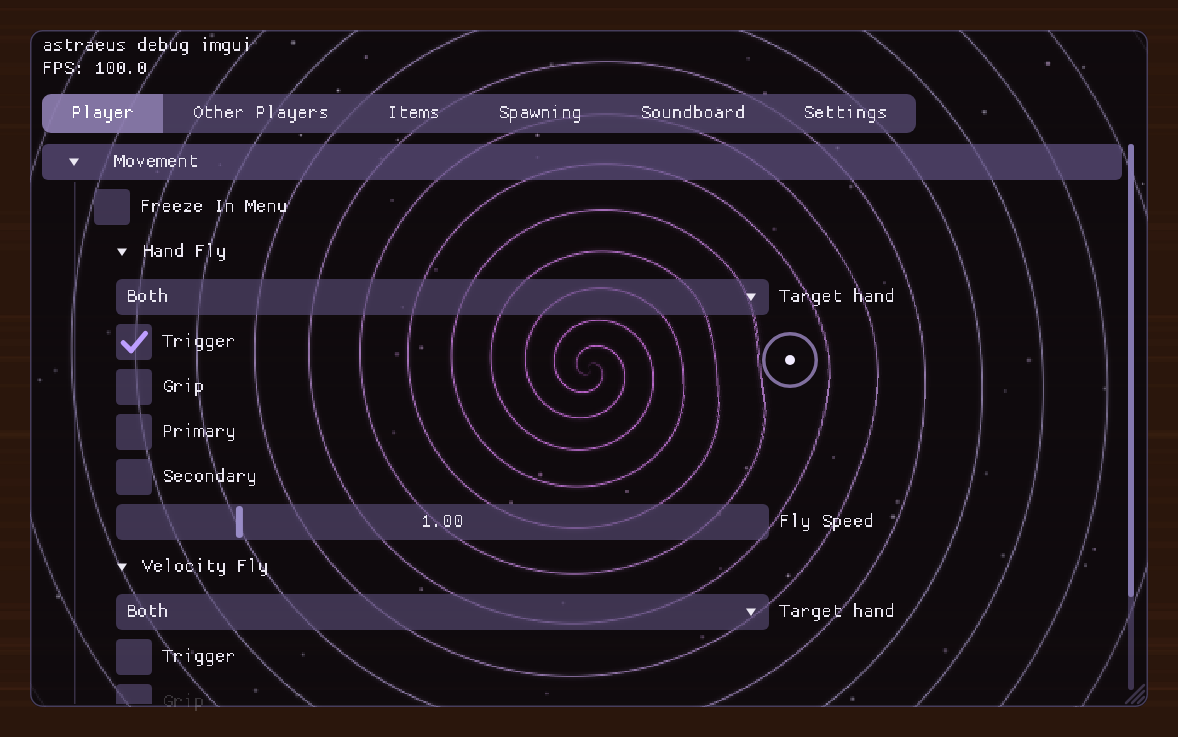
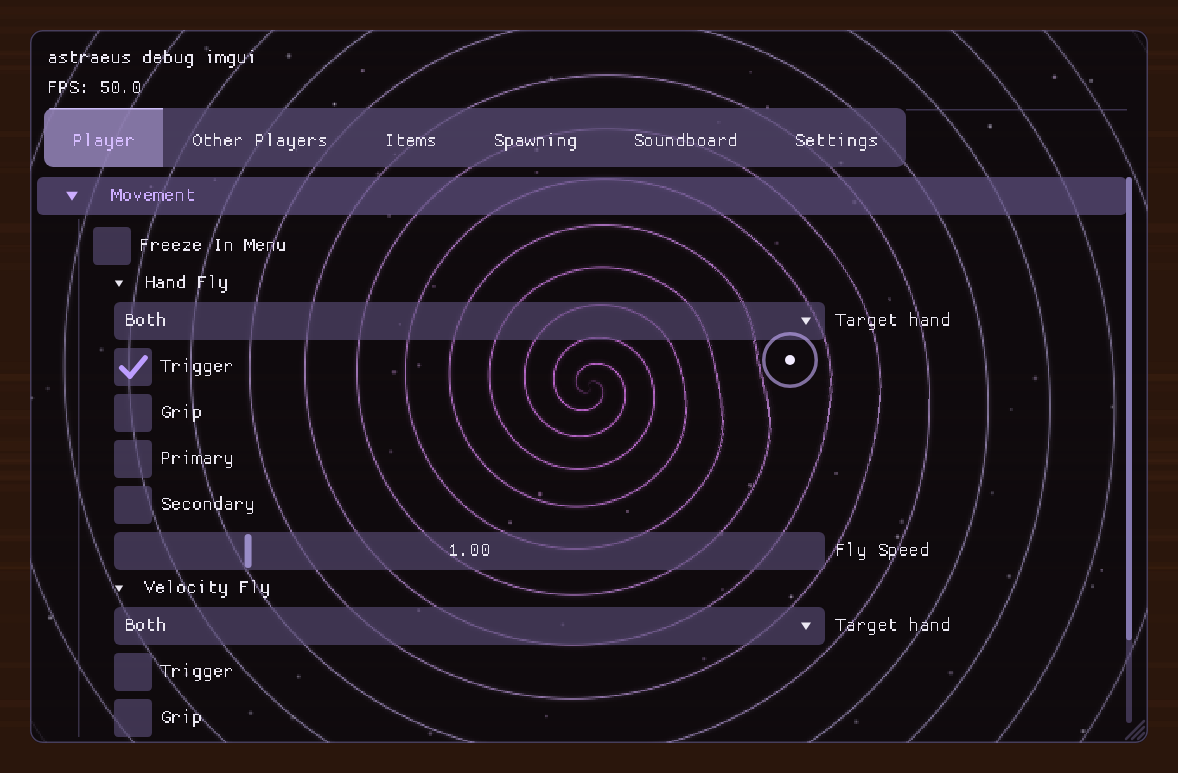
Pixel-match the Spiral Menu reference
Measured the reference screenshot (1 px = 1.69 menu units) and matched:
- title / FPS text tops at 18 / 48, tab strip at 78 and 59 tall, tab
  text a little below centre, 28 units padding per side, a 1.5-unit
  overline on the selected tab, and a thin line from the strip's end to
  the window edge;
- 38-unit rows with 8 between; headers reach half the window padding
  past the content (like ImGui), bigger lavender arrow + label, 12 below;
- tree nodes are text-height rows with a small arrow 21 in and children
  20.5 in; section content 48.6 in with the guide at 34;
- item width a fixed 63.6 % of the window (ImGui-style), checkbox label
  gap 8, lavender selected-tab text.
NCS build regenerated.

Claude-Session: https://claude.ai/code/session_01CSWsGaxVVQEfJqQLYJMYRF

diff --git a/fridaimgui.ts b/fridaimgui.ts
@@ -891,7 +891,7 @@ Il2Cpp.perform(() => {
 			ListRow: [0.16, 0.29, 0.48, 0.30], ListRowAlt: [0.16, 0.29, 0.48, 0.45], NoticeTitle: [1, 0.80, 0.40, 1], NoticeBorder: [1, 0.78, 0.40, 0.75],
 		},
 		Skire: {
-			Text: [0.92, 0.91, 0.95, 1], TextDisabled: [0.60, 0.57, 0.68, 1], TextOnActive: [1, 1, 1, 1],
+			Text: [0.92, 0.91, 0.95, 1], TextDisabled: [0.60, 0.57, 0.68, 1], TextOnActive: [0.84, 0.74, 1, 1], HeaderText: [0.80, 0.68, 1, 1],
 			WindowBg: [0.035, 0.028, 0.055, 0.80], Pattern: [1, 1, 1, 0.85], PopupBg: [0.10, 0.08, 0.15, 0.97], Border: [0.46, 0.41, 0.62, 0.55],
 			TitleBg: [0.06, 0.05, 0.09, 0.9], TitleBgActive: [0.10, 0.08, 0.15, 0.95],
 			RowBg: [0.36, 0.31, 0.48, 0.30], RowHover: [0.46, 0.40, 0.62, 0.50],
@@ -905,7 +905,7 @@ Il2Cpp.perform(() => {
 			Grip: [0.56, 0.50, 0.72, 0.35], GripHovered: [0.62, 0.57, 0.80, 0.7], GripActive: [0.72, 0.66, 0.90, 0.95],
 			ModalDim: [0.02, 0.01, 0.04, 0.6], Discord: [0.35, 0.4, 0.95, 0.9], DiscordHovered: [0.45, 0.5, 1, 1],
 			ListRow: [0.36, 0.31, 0.48, 0.42], ListRowAlt: [0.44, 0.39, 0.58, 0.42],
-			NoticeTitle: [1, 0.80, 0.40, 1], NoticeBorder: [1, 0.78, 0.40, 0.75],
+			NoticeTitle: [1, 0.80, 0.40, 1], NoticeBorder: [1, 0.78, 0.40, 0.75], TabOverline: [0.80, 0.74, 0.96, 1],
 		},
 		Purple: {
 			Text: [0.86, 0.83, 0.95, 1], TextDisabled: [0.62, 0.58, 0.75, 0.85], TextOnActive: [1, 1, 1, 1],
@@ -955,8 +955,8 @@ Il2Cpp.perform(() => {
 	};
 	const THEME_NAMES = Object.keys(THEMES);
 	const style = {
-		scale: UI_SCALE * MENU_SIZE / 100, width: WINDOW_WIDTH, titleH: 30, pad: 12, spacingX: 10, spacingY: 9,
-		frameH: 36, framePadX: 14, fontSize: 24, grabW: 7, tabH: 39, tabPadX: 29, itemW: 0.65,
+		scale: UI_SCALE * MENU_SIZE / 100, width: WINDOW_WIDTH, titleH: 30, pad: 14, spacingX: 10, spacingY: 8,
+		frameH: 38, framePadX: 14, fontSize: 24, grabW: 7, tabH: 59, tabPadX: 28, itemW: 0.636,
 		rows: ROW_LAYOUT, rowH: 38, rowGap: 3, labelFrac: 0.42, tabsFill: false, opacity: 1, rounding: ROUNDING,
 		sidebar: SIDEBAR_TABS, sidebarW: SIDEBAR_WIDTH,
 		wrist: WRIST_MENU, onTop: ALWAYS_ON_TOP, stabilize: STABILIZE,
@@ -1378,6 +1378,10 @@ Il2Cpp.perform(() => {
 		const i = label.indexOf("##");
 		return [i >= 0 ? label.slice(0, i) : label, (cur ? cur.title : "") + "/" + label];
 	}
+	function itemWidth(): number {
+		if (!cur) return 80;
+		return Math.max(80, Math.min(Math.round(cur.W * style.itemW), fullW() - 40));
+	}
 	function fullW(): number {
 		if (!cur) return 0;
 		const side = (cur.sideOff ?? 0);
@@ -1521,12 +1525,14 @@ Il2Cpp.perform(() => {
 		}
 		const focused = mouseWin === w || dragWin === w;
 		const fpsLine = TITLE_FPS && w.order === 0 && !w.collapsed;
+		const cellH = Math.round(14 * style.fontSize / 16);
 		if (classic) {
-			T(style.pad, 2, w.W - style.pad * 2 - closeW, th - 2, title, C.Text, ALIGN_LEFT, L_FRAME);
+			const tTop = Math.round(cellH * 0.857), fTop = tTop + Math.round(cellH * 1.43);
+			T(style.pad + 3, tTop, w.W - style.pad * 2 - closeW, cellH, title, C.Text, ALIGN_LEFT, L_FRAME);
 			if (fpsLine) {
 				const now = Date.now();
 				if (now - menuFpsAt >= 500) { menuFpsAt = now; menuFps = fps; }
-				T(style.pad, th - 4, 400, lineH(), "FPS: " + menuFps.toFixed(1), C.Text, ALIGN_LEFT, L_FRAME);
+				T(style.pad + 3, fTop, 400, cellH, "FPS: " + menuFps.toFixed(1), C.Text, ALIGN_LEFT, L_FRAME);
 			}
 		} else {
 			RR(0, 0, w.W, th, focused ? C.TitleBgActive : C.TitleBg, L_FRAME, 2, w.collapsed ? ALL_CORNERS : TOP_CORNERS);
@@ -1558,7 +1564,7 @@ Il2Cpp.perform(() => {
 		}
 
 		const fpsPad = fpsLine ? (classic ? lineH() - 4 : 16) : 0;
-		w.cy = th + fpsPad + style.pad; w.rowY = w.cy; w.rowH = 0; w.sameLine = false; w.indent = 0; w.lastX = 0; w.lastW = 0;
+		w.cy = classic ? Math.round(cellH * 0.857) + Math.round(cellH * (fpsLine ? 1.24 + 1.62 : 1.62)) : th + fpsPad + style.pad; w.rowY = w.cy; w.rowH = 0; w.sameLine = false; w.indent = 0; w.lastX = 0; w.lastW = 0;
 		return !w.collapsed;
 	}
 
@@ -1649,7 +1655,7 @@ Il2Cpp.perform(() => {
 			if (desc) T(bx + bs + 10, rw.y, rw.cw - bs - 10, rw.h, desc, C.TextDisabled, ALIGN_LEFT, L_FRAME);
 			return rw.b.clicked;
 		}
-		const sz = style.frameH, lw = textW(disp), gap = style.spacingX;
+		const sz = style.frameH, lw = textW(disp), gap = Math.round(style.frameH * 0.22);
 		const [x, y] = item(sz + gap + lw, sz);
 		const b = behavior(id, x, y, sz + gap + lw, sz);
 		if (b.clicked) r.v = !r.v;
@@ -1668,7 +1674,7 @@ Il2Cpp.perform(() => {
 			fx = rw.cx; fw = rw.cw; fh = style.frameH - 4; fy = rw.y + (rw.h - fh) / 2;
 			hy = rw.y; hh = rw.h;
 		} else {
-			fw = Math.max(80, Math.floor(fullW() * style.itemW)); fh = style.frameH;
+			fw = itemWidth(); fh = style.frameH;
 			[fx, fy] = item(fw + style.spacingX + textW(disp), fh);
 			hy = fy; hh = fh;
 			T(fx + fw + style.spacingX, fy, textW(disp), fh, disp, C.Text, ALIGN_LEFT, L_FRAME);
@@ -1699,7 +1705,7 @@ Il2Cpp.perform(() => {
 			const rw = row(id, disp, true);
 			fx = rw.cx; fw = rw.cw; fh = style.frameH - 4; fy = rw.y + (rw.h - fh) / 2; b = rw.b; popY = rw.y + rw.h;
 		} else {
-			fw = Math.max(80, Math.floor(fullW() * style.itemW)); fh = style.frameH;
+			fw = itemWidth(); fh = style.frameH;
 			[fx, fy] = item(fw + style.spacingX + textW(disp), fh);
 			b = behavior(id, fx, fy, fw, fh); popY = fy + fh + 2;
 			T(fx + fw + style.spacingX, fy, textW(disp), fh, disp, C.Text, ALIGN_LEFT, L_FRAME);
@@ -1780,14 +1786,15 @@ Il2Cpp.perform(() => {
 		const [disp, id] = labelId(label);
 		if (!openHeaders.has(id)) openHeaders.set(id, defaultOpen);
 		const fw = fullW(), fh = style.rows ? style.rowH : style.frameH;
-		const [x, y] = item(fw, fh, style.rows ? style.rowGap : style.spacingY);
-		const b = behavior(id, x, y, fw, fh);
+		const [x0, y] = item(fw, fh, style.rows ? style.rowGap : style.spacingY + 4);
+		const x = x0 - style.pad / 2, hw = fw + style.pad;
+		const b = behavior(id, x, y, hw, fh);
 		if (b.clicked) openHeaders.set(id, !openHeaders.get(id));
 		const isOpen = !!openHeaders.get(id);
-		RR(x, y, fw, fh, b.held ? C.HeaderActive : b.hov ? C.HeaderHovered : C.Header, L_FRAME);
-		const as = arrowSize(), ax = x + Math.round(fh * 0.72), lx = ax + as + Math.round(fh * 0.95);
-		arrow(ax, y + (fh - as) / 2, as, isOpen ? 0 : 1, C.Text);
-		T(lx, y, fw - (lx - x) - 8, fh, disp, C.Text, ALIGN_LEFT, L_FRAME);
+		RR(x, y, hw, fh, b.held ? C.HeaderActive : b.hov ? C.HeaderHovered : C.Header, L_FRAME);
+		const as = Math.round(style.fontSize * 0.6), ax = x + Math.round(fh * 0.74), lx = x + Math.round(fh * 1.95);
+		arrow(ax, y + (fh - as) / 2, as, isOpen ? 0 : 1, C.HeaderText ?? C.Text);
+		T(lx, y, hw - (lx - x) - 8, fh, disp, C.HeaderText ?? C.Text, ALIGN_LEFT, L_FRAME);
 		return isOpen;
 	}
 	// indent guides: thin vertical lines down the left of open sections / tree nodes
@@ -1798,13 +1805,13 @@ Il2Cpp.perform(() => {
 		if (y1 > g.y0 + 2) R(g.gx, g.y0, 1.5, y1 - g.y0, fade(C.Separator, 0.8), L_ROW);
 	}
 	// a collapsing header whose content is indented with a guide line; close with endSection() when it returns true
-	const SECTION_INDENT = () => Math.round(style.frameH * 1.45);
+	const SECTION_INDENT = () => Math.round(style.frameH * 1.28);
 	function section(label: string, defaultOpen: boolean = false): boolean {
 		const open = collapsingHeader(label, defaultOpen);
 		if (open && cur) {
 			const x = style.pad + cur.indent + (cur.sideOff ?? 0), y = cur.cy - (cur.clipOn ? Math.round(cur.scroll) : 0);
 			const amount = SECTION_INDENT();
-			guides.push({ gx: x + Math.round(amount * 0.62), y0: y - style.spacingY + 2, amount });
+			guides.push({ gx: x + Math.round(amount * 0.70), y0: y - style.spacingY, amount });
 			cur.indent += amount;
 		}
 		return open;
@@ -1815,20 +1822,20 @@ Il2Cpp.perform(() => {
 		guideLine(g);
 		cur.indent = Math.max(0, cur.indent - g.amount);
 	}
-	const treeIndent = () => Math.round(style.frameH * 0.6);
+	const treeIndent = () => Math.round(style.frameH * 0.54);
 	function treeNode(label: string, defaultOpen: boolean = false): boolean {
 		const [disp, id] = labelId(label);
 		if (!openHeaders.has(id)) openHeaders.set(id, defaultOpen);
-		const fh = style.frameH, as = arrowSize();
+		const fh = Math.round(14 * style.fontSize / 16), as = Math.round(style.fontSize * 0.42);
 		const tw = as + style.spacingX + textW(disp) + 8;
 		const [x, y] = item(tw, fh, style.rows ? style.rowGap : style.spacingY);
 		const b = behavior(id, x, y, Math.max(tw, fullW() * 0.5), fh);
 		if (b.clicked) openHeaders.set(id, !openHeaders.get(id));
 		const isOpen = !!openHeaders.get(id);
 		if (b.hov || b.held) RR(x, y, fullW(), fh, b.held ? C.HeaderActive : C.HeaderHovered, L_FRAME);
-		const ax = x + treeIndent();
+		const ax = x + Math.round(style.frameH * 0.55);
 		arrow(ax, y + (fh - as) / 2, as, isOpen ? 0 : 1, C.Text);
-		T(ax + as + Math.round(fh * 0.4), y, textW(disp) + 8, fh, disp, C.Text, ALIGN_LEFT, L_FRAME);
+		T(x + Math.round(style.frameH * 1.33), y, textW(disp) + 8, fh, disp, C.Text, ALIGN_LEFT, L_FRAME);
 		if (isOpen && cur) cur.indent += treeIndent();
 		return isOpen;
 	}
@@ -1863,7 +1870,7 @@ Il2Cpp.perform(() => {
 			const rw = row(id, disp, true);
 			fx = rw.cx; fw = rw.cw; fh = style.frameH - 4; fy = rw.y + (rw.h - fh) / 2; b = rw.b;
 		} else {
-			fw = Math.max(80, Math.floor(fullW() * style.itemW)); fh = style.frameH;
+			fw = itemWidth(); fh = style.frameH;
 			[fx, fy] = item(fw + (disp ? style.spacingX + textW(disp) : 0), fh);
 			b = behavior(id, fx, fy, fw, fh);
 			if (disp) T(fx + fw + style.spacingX, fy, textW(disp), fh, disp, C.Text, ALIGN_LEFT, L_FRAME);
@@ -2109,7 +2116,12 @@ Il2Cpp.perform(() => {
 			const b = behavior(tid, x, bar.y, tw, bar.h);
 			if (b.clicked) tabNext.set(bar.id, tid);
 			R(x, bar.y, tw, bar.h, sel ? C.TabActive : b.hov ? C.TabHovered : C.Tab, L_FRAME, 0, ends ? TAB_ROUNDING : 0, ends);
-			T(x, bar.y, tw, bar.h, disp, sel ? C.TextOnActive : C.Text, ALIGN_CENTER, L_FRAME);
+			const cellH = Math.round(14 * style.fontSize / 16);
+			T(x, bar.y + Math.round(bar.h * 0.568 - cellH / 2), tw, cellH, disp, sel ? C.TextOnActive : C.Text, ALIGN_CENTER, L_FRAME);
+			if (sel) {
+				const inset = ends ? TAB_ROUNDING * 0.6 : 0;
+				R(x + ((ends & 1) ? inset : 0), bar.y, tw - ((ends & 1) ? inset : 0) - ((ends & 2) ? inset : 0), 1.5, C.TabOverline ?? C.Accent, L_FILL);
+			}
 		}
 		win.clipOn = clip;
 		return sel;
@@ -2260,6 +2272,10 @@ Il2Cpp.perform(() => {
 				const clipWas = win.clipOn;
 				win.clipOn = false;
 				if (bar.scrolling) drawTabArrows(bar.id, bar.y, bar.h, bar.first!, bar.last!, bar.n);
+				else {
+					const x1 = win.W - style.pad - (win.sbVisible ? 14 : 0) + style.pad / 2;
+					if (x1 > bar.nx + 4) R(bar.nx, bar.y + 1, x1 - bar.nx, 1.5, fade(C.Separator, 0.9), L_FRAME);
+				}
 				win.clipOn = clipWas;
 			}
 			if (win.clipOn) {

diff --git a/fridaimgui_ncs.ts b/fridaimgui_ncs.ts
@@ -904,7 +904,7 @@ Il2Cpp.perform(() => {
 			ListRow: [0.16, 0.29, 0.48, 0.30], ListRowAlt: [0.16, 0.29, 0.48, 0.45], NoticeTitle: [1, 0.80, 0.40, 1], NoticeBorder: [1, 0.78, 0.40, 0.75],
 		},
 		Skire: {
-			Text: [0.92, 0.91, 0.95, 1], TextDisabled: [0.60, 0.57, 0.68, 1], TextOnActive: [1, 1, 1, 1],
+			Text: [0.92, 0.91, 0.95, 1], TextDisabled: [0.60, 0.57, 0.68, 1], TextOnActive: [0.84, 0.74, 1, 1], HeaderText: [0.80, 0.68, 1, 1],
 			WindowBg: [0.035, 0.028, 0.055, 0.80], Pattern: [1, 1, 1, 0.85], PopupBg: [0.10, 0.08, 0.15, 0.97], Border: [0.46, 0.41, 0.62, 0.55],
 			TitleBg: [0.06, 0.05, 0.09, 0.9], TitleBgActive: [0.10, 0.08, 0.15, 0.95],
 			RowBg: [0.36, 0.31, 0.48, 0.30], RowHover: [0.46, 0.40, 0.62, 0.50],
@@ -918,7 +918,7 @@ Il2Cpp.perform(() => {
 			Grip: [0.56, 0.50, 0.72, 0.35], GripHovered: [0.62, 0.57, 0.80, 0.7], GripActive: [0.72, 0.66, 0.90, 0.95],
 			ModalDim: [0.02, 0.01, 0.04, 0.6], Discord: [0.35, 0.4, 0.95, 0.9], DiscordHovered: [0.45, 0.5, 1, 1],
 			ListRow: [0.36, 0.31, 0.48, 0.42], ListRowAlt: [0.44, 0.39, 0.58, 0.42],
-			NoticeTitle: [1, 0.80, 0.40, 1], NoticeBorder: [1, 0.78, 0.40, 0.75],
+			NoticeTitle: [1, 0.80, 0.40, 1], NoticeBorder: [1, 0.78, 0.40, 0.75], TabOverline: [0.80, 0.74, 0.96, 1],
 		},
 		Purple: {
 			Text: [0.86, 0.83, 0.95, 1], TextDisabled: [0.62, 0.58, 0.75, 0.85], TextOnActive: [1, 1, 1, 1],
@@ -968,8 +968,8 @@ Il2Cpp.perform(() => {
 	};
 	const THEME_NAMES = Object.keys(THEMES);
 	const style = {
-		scale: UI_SCALE * MENU_SIZE / 100, width: WINDOW_WIDTH, titleH: 30, pad: 12, spacingX: 10, spacingY: 9,
-		frameH: 36, framePadX: 14, fontSize: 24, grabW: 7, tabH: 39, tabPadX: 29, itemW: 0.65,
+		scale: UI_SCALE * MENU_SIZE / 100, width: WINDOW_WIDTH, titleH: 30, pad: 14, spacingX: 10, spacingY: 8,
+		frameH: 38, framePadX: 14, fontSize: 24, grabW: 7, tabH: 59, tabPadX: 28, itemW: 0.636,
 		rows: ROW_LAYOUT, rowH: 38, rowGap: 3, labelFrac: 0.42, tabsFill: false, opacity: 1, rounding: ROUNDING,
 		sidebar: SIDEBAR_TABS, sidebarW: SIDEBAR_WIDTH,
 		wrist: WRIST_MENU, onTop: ALWAYS_ON_TOP, stabilize: STABILIZE,
@@ -1391,6 +1391,10 @@ Il2Cpp.perform(() => {
 		const i = label.indexOf("##");
 		return [i >= 0 ? label.slice(0, i) : label, (cur ? cur.title : "") + "/" + label];
 	}
+	function itemWidth(): number {
+		if (!cur) return 80;
+		return Math.max(80, Math.min(Math.round(cur.W * style.itemW), fullW() - 40));
+	}
 	function fullW(): number {
 		if (!cur) return 0;
 		const side = (cur.sideOff ?? 0);
@@ -1534,12 +1538,14 @@ Il2Cpp.perform(() => {
 		}
 		const focused = mouseWin === w || dragWin === w;
 		const fpsLine = TITLE_FPS && w.order === 0 && !w.collapsed;
+		const cellH = Math.round(14 * style.fontSize / 16);
 		if (classic) {
-			T(style.pad, 2, w.W - style.pad * 2 - closeW, th - 2, title, C.Text, ALIGN_LEFT, L_FRAME);
+			const tTop = Math.round(cellH * 0.857), fTop = tTop + Math.round(cellH * 1.43);
+			T(style.pad + 3, tTop, w.W - style.pad * 2 - closeW, cellH, title, C.Text, ALIGN_LEFT, L_FRAME);
 			if (fpsLine) {
 				const now = Date.now();
 				if (now - menuFpsAt >= 500) { menuFpsAt = now; menuFps = fps; }
-				T(style.pad, th - 4, 400, lineH(), "FPS: " + menuFps.toFixed(1), C.Text, ALIGN_LEFT, L_FRAME);
+				T(style.pad + 3, fTop, 400, cellH, "FPS: " + menuFps.toFixed(1), C.Text, ALIGN_LEFT, L_FRAME);
 			}
 		} else {
 			RR(0, 0, w.W, th, focused ? C.TitleBgActive : C.TitleBg, L_FRAME, 2, w.collapsed ? ALL_CORNERS : TOP_CORNERS);
@@ -1571,7 +1577,7 @@ Il2Cpp.perform(() => {
 		}
 
 		const fpsPad = fpsLine ? (classic ? lineH() - 4 : 16) : 0;
-		w.cy = th + fpsPad + style.pad; w.rowY = w.cy; w.rowH = 0; w.sameLine = false; w.indent = 0; w.lastX = 0; w.lastW = 0;
+		w.cy = classic ? Math.round(cellH * 0.857) + Math.round(cellH * (fpsLine ? 1.24 + 1.62 : 1.62)) : th + fpsPad + style.pad; w.rowY = w.cy; w.rowH = 0; w.sameLine = false; w.indent = 0; w.lastX = 0; w.lastW = 0;
 		return !w.collapsed;
 	}
 
@@ -1662,7 +1668,7 @@ Il2Cpp.perform(() => {
 			if (desc) T(bx + bs + 10, rw.y, rw.cw - bs - 10, rw.h, desc, C.TextDisabled, ALIGN_LEFT, L_FRAME);
 			return rw.b.clicked;
 		}
-		const sz = style.frameH, lw = textW(disp), gap = style.spacingX;
+		const sz = style.frameH, lw = textW(disp), gap = Math.round(style.frameH * 0.22);
 		const [x, y] = item(sz + gap + lw, sz);
 		const b = behavior(id, x, y, sz + gap + lw, sz);
 		if (b.clicked) r.v = !r.v;
@@ -1681,7 +1687,7 @@ Il2Cpp.perform(() => {
 			fx = rw.cx; fw = rw.cw; fh = style.frameH - 4; fy = rw.y + (rw.h - fh) / 2;
 			hy = rw.y; hh = rw.h;
 		} else {
-			fw = Math.max(80, Math.floor(fullW() * style.itemW)); fh = style.frameH;
+			fw = itemWidth(); fh = style.frameH;
 			[fx, fy] = item(fw + style.spacingX + textW(disp), fh);
 			hy = fy; hh = fh;
 			T(fx + fw + style.spacingX, fy, textW(disp), fh, disp, C.Text, ALIGN_LEFT, L_FRAME);
@@ -1712,7 +1718,7 @@ Il2Cpp.perform(() => {
 			const rw = row(id, disp, true);
 			fx = rw.cx; fw = rw.cw; fh = style.frameH - 4; fy = rw.y + (rw.h - fh) / 2; b = rw.b; popY = rw.y + rw.h;
 		} else {
-			fw = Math.max(80, Math.floor(fullW() * style.itemW)); fh = style.frameH;
+			fw = itemWidth(); fh = style.frameH;
 			[fx, fy] = item(fw + style.spacingX + textW(disp), fh);
 			b = behavior(id, fx, fy, fw, fh); popY = fy + fh + 2;
 			T(fx + fw + style.spacingX, fy, textW(disp), fh, disp, C.Text, ALIGN_LEFT, L_FRAME);
@@ -1793,14 +1799,15 @@ Il2Cpp.perform(() => {
 		const [disp, id] = labelId(label);
 		if (!openHeaders.has(id)) openHeaders.set(id, defaultOpen);
 		const fw = fullW(), fh = style.rows ? style.rowH : style.frameH;
-		const [x, y] = item(fw, fh, style.rows ? style.rowGap : style.spacingY);
-		const b = behavior(id, x, y, fw, fh);
+		const [x0, y] = item(fw, fh, style.rows ? style.rowGap : style.spacingY + 4);
+		const x = x0 - style.pad / 2, hw = fw + style.pad;
+		const b = behavior(id, x, y, hw, fh);
 		if (b.clicked) openHeaders.set(id, !openHeaders.get(id));
 		const isOpen = !!openHeaders.get(id);
-		RR(x, y, fw, fh, b.held ? C.HeaderActive : b.hov ? C.HeaderHovered : C.Header, L_FRAME);
-		const as = arrowSize(), ax = x + Math.round(fh * 0.72), lx = ax + as + Math.round(fh * 0.95);
-		arrow(ax, y + (fh - as) / 2, as, isOpen ? 0 : 1, C.Text);
-		T(lx, y, fw - (lx - x) - 8, fh, disp, C.Text, ALIGN_LEFT, L_FRAME);
+		RR(x, y, hw, fh, b.held ? C.HeaderActive : b.hov ? C.HeaderHovered : C.Header, L_FRAME);
+		const as = Math.round(style.fontSize * 0.6), ax = x + Math.round(fh * 0.74), lx = x + Math.round(fh * 1.95);
+		arrow(ax, y + (fh - as) / 2, as, isOpen ? 0 : 1, C.HeaderText ?? C.Text);
+		T(lx, y, hw - (lx - x) - 8, fh, disp, C.HeaderText ?? C.Text, ALIGN_LEFT, L_FRAME);
 		return isOpen;
 	}
 	// indent guides: thin vertical lines down the left of open sections / tree nodes
@@ -1811,13 +1818,13 @@ Il2Cpp.perform(() => {
 		if (y1 > g.y0 + 2) R(g.gx, g.y0, 1.5, y1 - g.y0, fade(C.Separator, 0.8), L_ROW);
 	}
 	// a collapsing header whose content is indented with a guide line; close with endSection() when it returns true
-	const SECTION_INDENT = () => Math.round(style.frameH * 1.45);
+	const SECTION_INDENT = () => Math.round(style.frameH * 1.28);
 	function section(label: string, defaultOpen: boolean = false): boolean {
 		const open = collapsingHeader(label, defaultOpen);
 		if (open && cur) {
 			const x = style.pad + cur.indent + (cur.sideOff ?? 0), y = cur.cy - (cur.clipOn ? Math.round(cur.scroll) : 0);
 			const amount = SECTION_INDENT();
-			guides.push({ gx: x + Math.round(amount * 0.62), y0: y - style.spacingY + 2, amount });
+			guides.push({ gx: x + Math.round(amount * 0.70), y0: y - style.spacingY, amount });
 			cur.indent += amount;
 		}
 		return open;
@@ -1828,20 +1835,20 @@ Il2Cpp.perform(() => {
 		guideLine(g);
 		cur.indent = Math.max(0, cur.indent - g.amount);
 	}
-	const treeIndent = () => Math.round(style.frameH * 0.6);
+	const treeIndent = () => Math.round(style.frameH * 0.54);
 	function treeNode(label: string, defaultOpen: boolean = false): boolean {
 		const [disp, id] = labelId(label);
 		if (!openHeaders.has(id)) openHeaders.set(id, defaultOpen);
-		const fh = style.frameH, as = arrowSize();
+		const fh = Math.round(14 * style.fontSize / 16), as = Math.round(style.fontSize * 0.42);
 		const tw = as + style.spacingX + textW(disp) + 8;
 		const [x, y] = item(tw, fh, style.rows ? style.rowGap : style.spacingY);
 		const b = behavior(id, x, y, Math.max(tw, fullW() * 0.5), fh);
 		if (b.clicked) openHeaders.set(id, !openHeaders.get(id));
 		const isOpen = !!openHeaders.get(id);
 		if (b.hov || b.held) RR(x, y, fullW(), fh, b.held ? C.HeaderActive : C.HeaderHovered, L_FRAME);
-		const ax = x + treeIndent();
+		const ax = x + Math.round(style.frameH * 0.55);
 		arrow(ax, y + (fh - as) / 2, as, isOpen ? 0 : 1, C.Text);
-		T(ax + as + Math.round(fh * 0.4), y, textW(disp) + 8, fh, disp, C.Text, ALIGN_LEFT, L_FRAME);
+		T(x + Math.round(style.frameH * 1.33), y, textW(disp) + 8, fh, disp, C.Text, ALIGN_LEFT, L_FRAME);
 		if (isOpen && cur) cur.indent += treeIndent();
 		return isOpen;
 	}
@@ -1876,7 +1883,7 @@ Il2Cpp.perform(() => {
 			const rw = row(id, disp, true);
 			fx = rw.cx; fw = rw.cw; fh = style.frameH - 4; fy = rw.y + (rw.h - fh) / 2; b = rw.b;
 		} else {
-			fw = Math.max(80, Math.floor(fullW() * style.itemW)); fh = style.frameH;
+			fw = itemWidth(); fh = style.frameH;
 			[fx, fy] = item(fw + (disp ? style.spacingX + textW(disp) : 0), fh);
 			b = behavior(id, fx, fy, fw, fh);
 			if (disp) T(fx + fw + style.spacingX, fy, textW(disp), fh, disp, C.Text, ALIGN_LEFT, L_FRAME);
@@ -2122,7 +2129,12 @@ Il2Cpp.perform(() => {
 			const b = behavior(tid, x, bar.y, tw, bar.h);
 			if (b.clicked) tabNext.set(bar.id, tid);
 			R(x, bar.y, tw, bar.h, sel ? C.TabActive : b.hov ? C.TabHovered : C.Tab, L_FRAME, 0, ends ? TAB_ROUNDING : 0, ends);
-			T(x, bar.y, tw, bar.h, disp, sel ? C.TextOnActive : C.Text, ALIGN_CENTER, L_FRAME);
+			const cellH = Math.round(14 * style.fontSize / 16);
+			T(x, bar.y + Math.round(bar.h * 0.568 - cellH / 2), tw, cellH, disp, sel ? C.TextOnActive : C.Text, ALIGN_CENTER, L_FRAME);
+			if (sel) {
+				const inset = ends ? TAB_ROUNDING * 0.6 : 0;
+				R(x + ((ends & 1) ? inset : 0), bar.y, tw - ((ends & 1) ? inset : 0) - ((ends & 2) ? inset : 0), 1.5, C.TabOverline ?? C.Accent, L_FILL);
+			}
 		}
 		win.clipOn = clip;
 		return sel;
@@ -2273,6 +2285,10 @@ Il2Cpp.perform(() => {
 				const clipWas = win.clipOn;
 				win.clipOn = false;
 				if (bar.scrolling) drawTabArrows(bar.id, bar.y, bar.h, bar.first!, bar.last!, bar.n);
+				else {
+					const x1 = win.W - style.pad - (win.sbVisible ? 14 : 0) + style.pad / 2;
+					if (x1 > bar.nx + 4) R(bar.nx, bar.y + 1, x1 - bar.nx, 1.5, fade(C.Separator, 0.9), L_FRAME);
+				}
 				win.clipOn = clipWas;
 			}
 			if (win.clipOn) {
